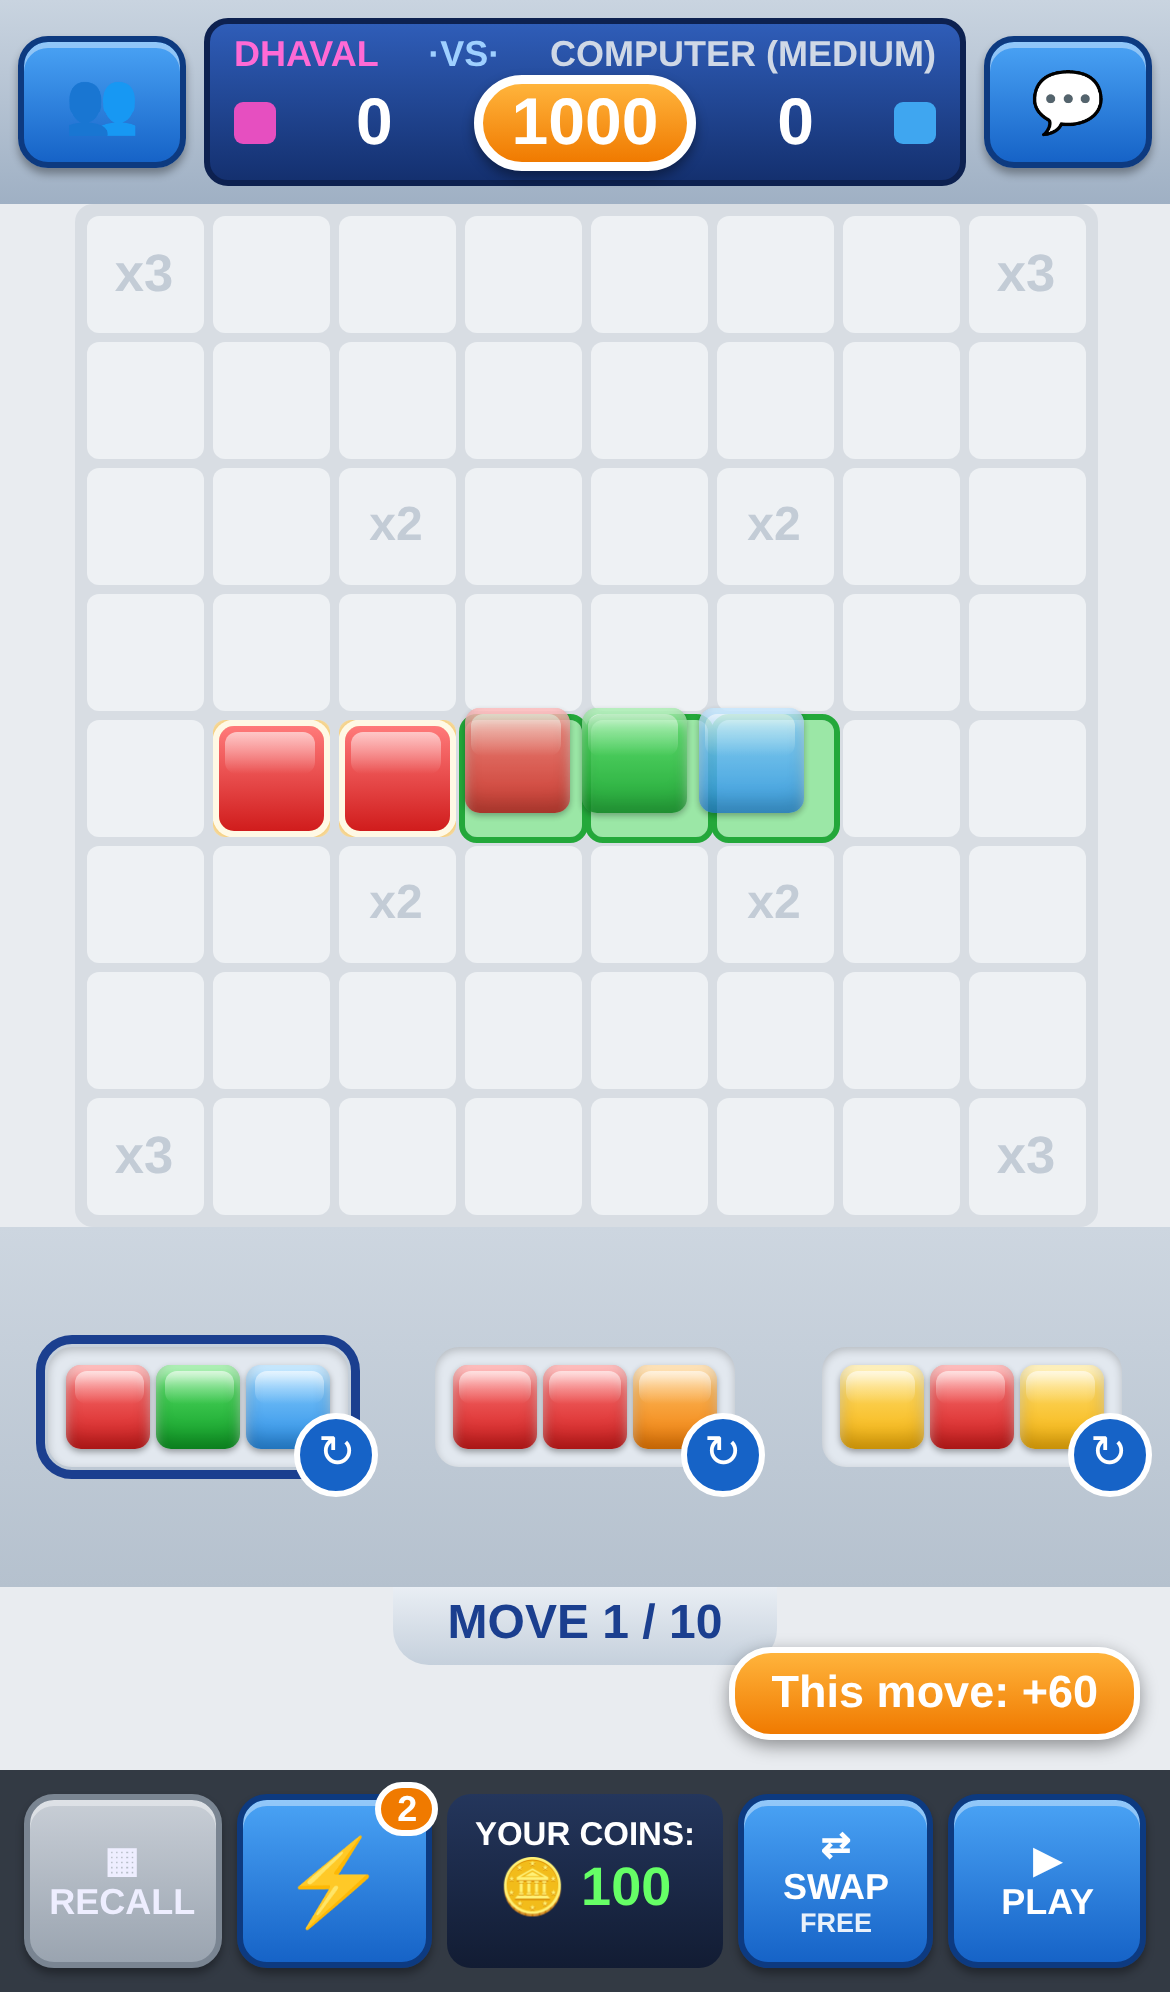
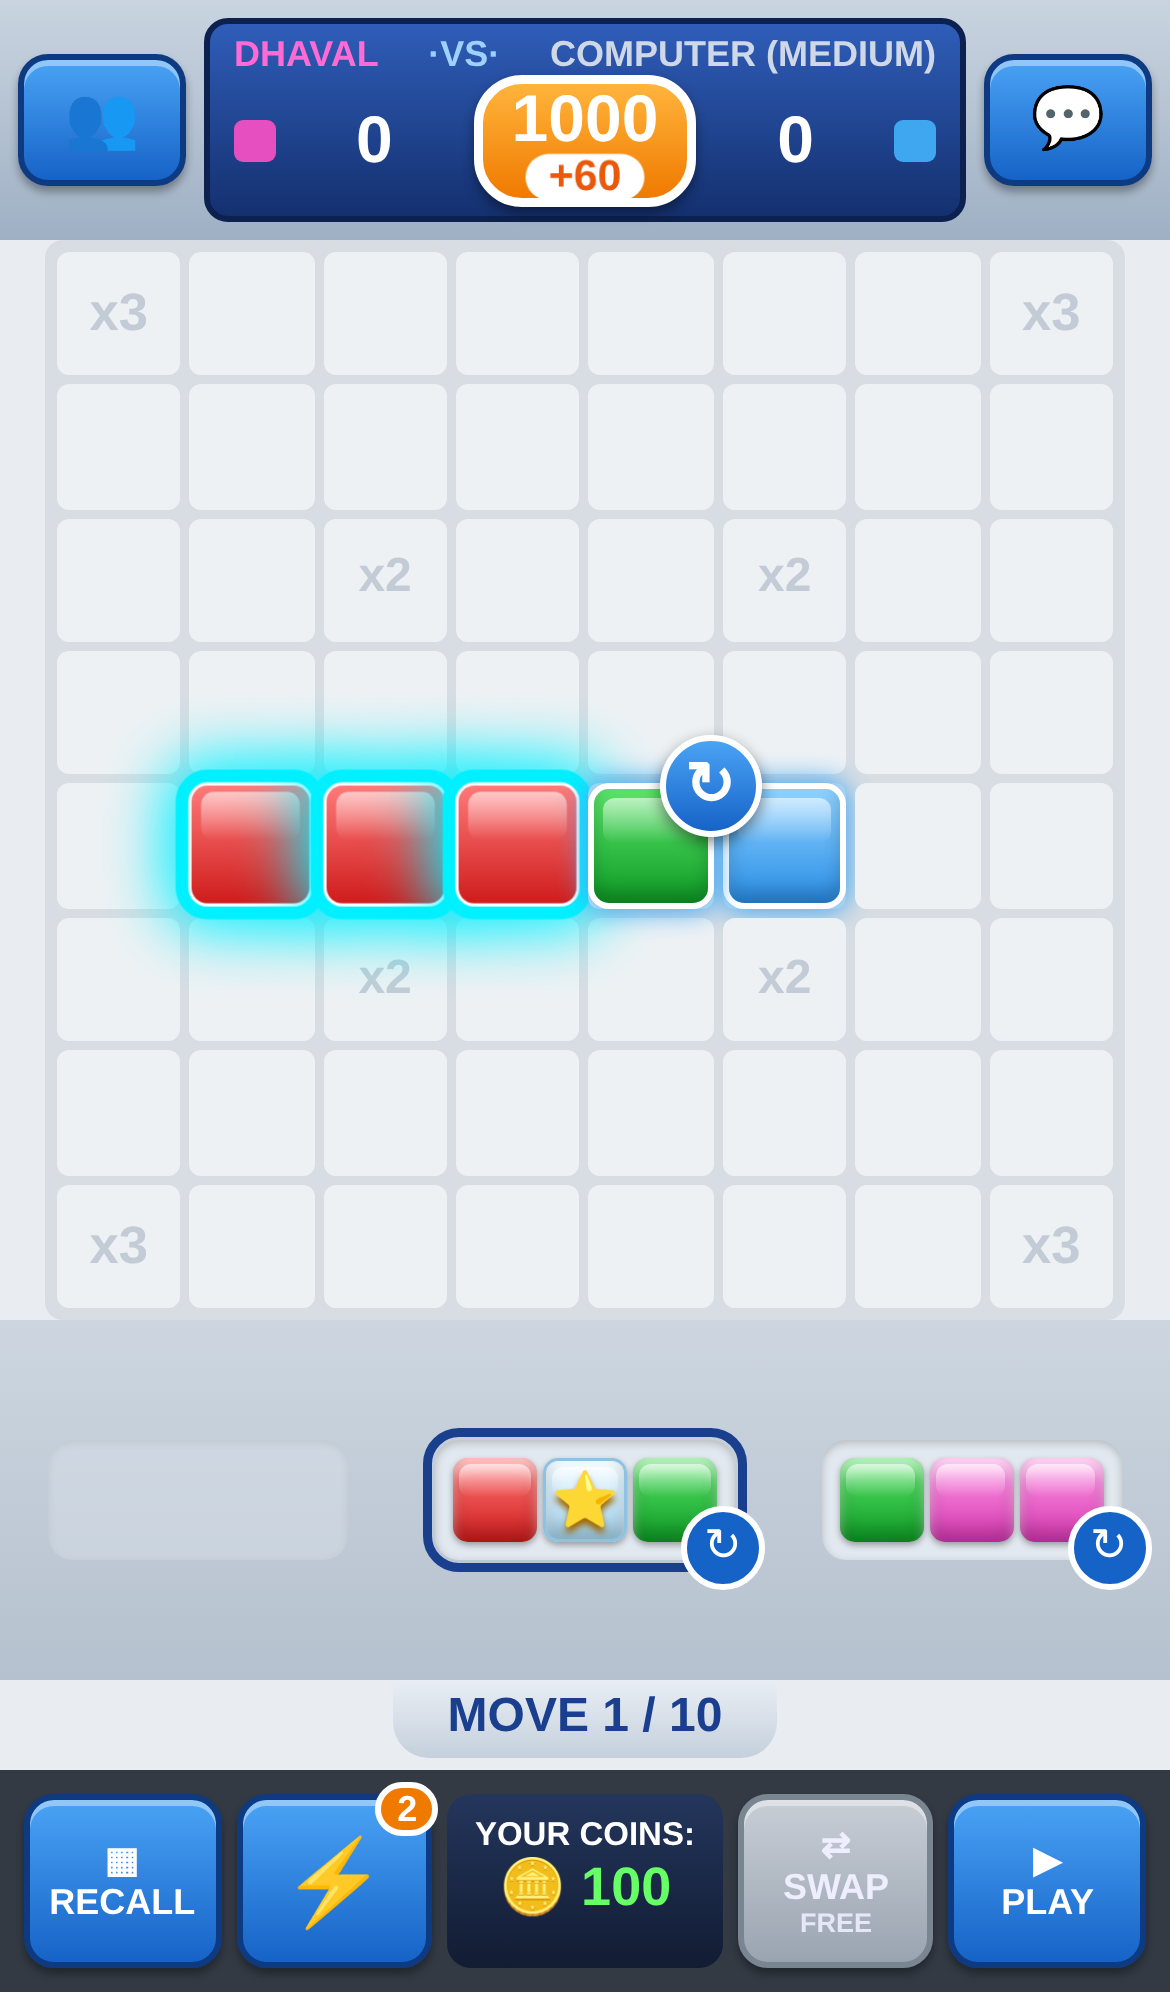
v15: projected score in header pot, neon will-score ring, bubble pops + particles, Web Audio SFX with mute

diff --git a/app.js b/app.js
@@ -1,7 +1,20 @@
 const L=Logic,$=id=>document.getElementById(id);let g,pieces=[],sel=null,boost=false,busy=false,ghost=null,pops=[];
 const toast=document.createElement('div');toast.id='toast';document.body.appendChild(toast);
 function say(t){toast.textContent=t;toast.style.opacity=1;clearTimeout(say.t);say.t=setTimeout(()=>toast.style.opacity=0,1300);}
-function beep(f){try{const a=beep.c||(beep.c=new AudioContext()),o=a.createOscillator(),v=a.createGain();o.frequency.value=f;v.gain.value=.05;o.connect(v);v.connect(a.destination);o.start();o.stop(a.currentTime+.08);}catch(e){}}
+// ---- Web Audio synth SFX (no files); unlocked on first tap for iOS ----
+const SFX=(()=>{let ctx=null;const get=()=>{if(!ctx){const C=window.AudioContext||window.webkitAudioContext;if(!C)return null;ctx=new C();}if(ctx.state==='suspended')ctx.resume();return ctx;};
+ const muted=()=>typeof profile!=='undefined'&&profile.muted;
+ function tone(f,dur,type,vol,t0,f2){const a=get();if(!a||muted())return;const t=a.currentTime+(t0||0),o=a.createOscillator(),v=a.createGain();o.type=type||'sine';o.frequency.setValueAtTime(f,t);if(f2)o.frequency.exponentialRampToValueAtTime(f2,t+dur);
+  v.gain.setValueAtTime(0.0001,t);v.gain.exponentialRampToValueAtTime(vol||0.15,t+0.008);v.gain.exponentialRampToValueAtTime(0.0001,t+dur);o.connect(v);v.connect(a.destination);o.start(t);o.stop(t+dur+0.02);}
+ function noise(dur,vol,t0,lp){const a=get();if(!a||muted())return;const t=a.currentTime+(t0||0),n=a.sampleRate*dur,buf=a.createBuffer(1,n,a.sampleRate),d=buf.getChannelData(0);for(let i=0;i<n;i++)d[i]=(Math.random()*2-1)*Math.pow(1-i/n,2);
+  const s=a.createBufferSource(),f=a.createBiquadFilter(),v=a.createGain();f.type='lowpass';f.frequency.value=lp||1200;v.gain.value=vol||0.4;s.buffer=buf;s.connect(f);f.connect(v);v.connect(a.destination);s.start(t);}
+ return {unlock:()=>{const a=get();if(a){const b=a.createBuffer(1,1,22050),s=a.createBufferSource();s.buffer=b;s.connect(a.destination);s.start(0);}},
+  click:()=>tone(900,0.05,'square',0.06,0,500),rot:()=>tone(650,0.06,'triangle',0.08,0,900),bad:()=>tone(180,0.15,'sawtooth',0.07,0,120),
+  pop:i=>{tone(500+i*70,0.09,'sine',0.18,i*0.06,1400+i*90);noise(0.04,0.15,i*0.06,3000);},
+  chime:sc=>{const notes=sc>=300?[523,659,784,1047,1319]:sc>=120?[523,659,784,1047]:[659,784,988];notes.forEach((f,i)=>tone(f,0.25,'triangle',0.12,0.12+i*0.08));},
+  boom:()=>{noise(0.6,0.7,0,700);tone(120,0.5,'sine',0.35,0,40);},pass:()=>tone(330,0.12,'triangle',0.08)};})();
+function beep(f){if(f<=250)SFX.bad();else if(f<=650)SFX.click();else SFX.rot();}
+addEventListener('pointerdown',()=>SFX.unlock(),{once:true});
 function tileHTML(c){return c==='star'?'<div class="tile star"><span>⭐</span></div>':'<div class="tile '+c+'"></div>';}
 // ---- local profile (schema ready to sync to an online account later) ----
 const PKEY='startiles.profile';
@@ -23,7 +36,7 @@ function firstFree(){const r=g.racks[g.turn];for(let s=0;s<3;s++)if(r[3*s]&&!use
 function tilesAt(s,r,c){return L.pieceTiles(g.racks[g.turn],s,g.orient[g.turn][s],r,c);}
 function render(){setTimeout(fit,0);const b=cur(),bd=$('board');bd.innerHTML='';
  const pvTiles=placed().concat(ghost&&ghost.ok?ghost.tiles:[]),pv=L.previewMove(g,pvTiles,boost),willSet=new Set(pv.pops.map(q=>q.r*8+q.c));
- const pe=$('prev');pe.textContent='This move: +'+pv.score+(boost&&pv.score?' (⚡x2)':'');pe.className=(human()&&!aim&&(pvTiles.length||boost))?'show'+(pv.score?' hot':''):'';
+ const pe=$('prev');pe.textContent='This move: +'+pv.score+(boost&&pv.score?' (⚡x2)':'');const showPv=human()&&!aim&&(pvTiles.length||boost);pe.className='';const pp=$('potprev');pp.textContent=showPv?'+'+pv.score+(boost&&pv.score?' ⚡':''):'';pp.className=showPv?(pv.score?'hot':'zero'):'';
  const aimSet=new Set(aim&&aim.r!=null?L.blastCells(aim.type,aim.r,aim.c).map(([y,x])=>y*8+x):[]),fxSet=new Set(blastFx.map(([y,x])=>y*8+x));
  const gk=ghost?new Set(ghost.tiles.map(t=>t.r*8+t.c)):new Set();
  for(let r=0;r<8;r++)for(let c=0;c<8;c++){const d=document.createElement('div'),m=L.mult(r,c);d.className='cell'+(m>1?' m'+m:'');d.dataset.r=r;d.dataset.c=c;const t=b[r][c];
@@ -39,7 +52,7 @@ function render(){setTimeout(fit,0);const b=cur(),bd=$('board');bd.innerHTML='';
   const disp=L.pieceTiles(rack,s,o,0,0);for(let j=0;j<3;j++){const d=document.createElement('div');d.className='rt';if(!hidden)d.innerHTML=tileHTML(disp[j].color);set.appendChild(d);}
   if(!hidden){const rb=document.createElement('button');rb.className='rot';rb.textContent='↻';rb.dataset.s=s;set.appendChild(rb);}else set.classList.add('empty');
   rk.appendChild(set);}
- $('s0').textContent=g.scores[0];$('s1').textContent=g.scores[1];$('pot').textContent=g.pot;
+ $('s0').textContent=g.scores[0];$('s1').textContent=g.scores[1];$('potn').textContent=g.pot;
  $('n0').textContent=NAMES()[0];$('n1').textContent=NAMES()[1];$('n0').className=g.turn===0?'on':'';$('n1').className=g.turn===1?'on':'';
  const mv=Math.min(g.moves[g.turn]+1,10),fin=L.isFinal(g)&&!g.over;$('banner').textContent=g.over?'GAME OVER':(fin?'FINAL MOVE!':'MOVE '+mv+' / 10');$('banner').className=fin?'final':'';
  const fr=g.power[g.turn];$('badge').textContent=boost?'✓':(fr>0?fr:'50🪙');$('power').className='btn'+(boost?' on':'');const cw=g.mode==='pvp'?g.turn:meIdx();$('coinN').textContent=g.coins[cw];
@@ -95,12 +108,13 @@ $('pmenu').onclick=e=>{const b=e.target.closest('[data-p]');if(!b&&e.target.id!=
 $('tno').onclick=()=>{aim=null;$('tbar').classList.remove('show');render();};
 $('tgo').onclick=()=>{if(!aim||aim.r==null)return;if(isOn())Online.act({type:'blast',b:aim.type,r:aim.r,c:aim.c});const res=L.blast(g,aim.type,aim.r,aim.c);aim=null;$('tbar').classList.remove('show');if(!res)return render();
  boom(res);say(res.pops.length?'💥 Cleared '+res.pops.length+' tiles':'💥 Nothing to clear');};
-function boom(res){blastFx=res.cells;pops=res.pops;beep(150);render();setTimeout(()=>{blastFx=[];pops=[];render();},550);}
+function boom(res){blastFx=res.cells;pops=res.pops;SFX.boom();render();burst(res.pops);setTimeout(()=>{blastFx=[];pops=[];render();},550);}
 let blastFx=[];
 $('swap').onclick=()=>{const paid=g.swaps[g.turn]<1;if(!L.canSwap(g)){say('Not enough coins');return;}if(isOn())Online.act({type:'swap'});L.swap(g);say(paid?'Swapped (−50 🪙)':'Free swap used');next();};
-$('play').onclick=()=>{const np=pieces.length,p=g.turn;if(isOn())Online.act({type:'commit',pl:placed(),boost});const res=L.commit(g,placed(),boost);pop(res);markOwner(p);pieces=[];boost=false;beep(res.score?900:500);
+$('play').onclick=()=>{const np=pieces.length,p=g.turn;if(isOn())Online.act({type:'commit',pl:placed(),boost});const res=L.commit(g,placed(),boost);pop(res);markOwner(p);pieces=[];boost=false;
  say(res.score?'+'+res.score+' (cleared '+res.cleared+')':(np?'No match – need 3!':'Passed (pot +100)'));next();};
-function pop(res){pops=res.pops||[];setTimeout(()=>{pops=[];render();},450);}
+function pop(res){pops=res.pops||[];pops.forEach((q,i)=>SFX.pop(i));if(res.score)setTimeout(()=>SFX.chime(res.score),pops.length*60);else SFX.pass();burst(pops);setTimeout(()=>{pops=[];render();},650);}
+function burst(list){const bd=$('board');setTimeout(()=>list.forEach((q,i)=>{const cell=bd.children[q.r*8+q.c];if(!cell)return;for(let k=0;k<7;k++){const p=document.createElement('i');p.className='prt '+q.color;const ang=k/7*Math.PI*2+Math.random()*.5,d=28+Math.random()*26;p.style.setProperty('--dx',Math.cos(ang)*d+'px');p.style.setProperty('--dy',Math.sin(ang)*d+'px');p.style.animationDelay=(i*0.06)+'s';cell.appendChild(p);setTimeout(()=>p.remove(),900);}}),20);}
 function markOwner(p){g.board.forEach(r=>r.forEach(t=>{if(t&&t.star&&t.owner===undefined)t.owner=p;}));}
 function next(){sel=g.over?null:firstFree();render();if(g.over)return finish();
  if(g.mode==='pvp'){say(NAMES()[g.turn]+"'s turn");return;}
@@ -135,8 +149,9 @@ $('infoBtn').onclick=()=>say('Drag a 3-tile piece · tap it again or ↻ to rota
 function fit(){const bd=$('board'),app=$('app');let used=0;[...app.children].forEach(c=>{if(c!==bd&&c.id!=='overlay')used+=c.getBoundingClientRect().height;});
  const st=getComputedStyle(app),avail=app.clientHeight-parseFloat(st.paddingTop)-used-4;bd.style.width=Math.max(120,Math.min(app.clientWidth,avail))+'px';}
 addEventListener('resize',fit);
-function showProfile(){$('pname').value=profile.name;$('pstat').textContent='🪙 '+profile.coins+' coins · '+profile.wins+' wins / '+profile.games+' games';
+function showProfile(){$('muteBtn').textContent=profile.muted?'🔇 Sound: OFF':'🔊 Sound: ON';$('pname').value=profile.name;$('pstat').textContent='🪙 '+profile.coins+' coins · '+profile.wins+' wins / '+profile.games+' games';
  document.querySelectorAll('#diff button').forEach(b=>b.classList.toggle('on',b.dataset.d===profile.difficulty));}
+$('muteBtn').onclick=()=>{profile.muted=!profile.muted;saveProfile();showProfile();if(!profile.muted)SFX.chime(60);};
 $('diff').onclick=e=>{const b=e.target.closest('[data-d]');if(!b)return;profile.difficulty=b.dataset.d;saveProfile();showProfile();if(g)render();};
 $('pname').onchange=()=>{profile.name=$('pname').value.trim();saveProfile();if(g)render();};
 g=L.newGame('ai');g.coins[0]=profile.coins;render();showProfile();$('overlay').classList.add('show');if(!profile.name)setTimeout(()=>$('pname').focus(),300);

diff --git a/index.html b/index.html
@@ -1,11 +1,11 @@
 <!DOCTYPE html><html><head><meta charset="utf-8"><meta name="viewport" content="width=device-width,initial-scale=1,viewport-fit=cover,user-scalable=no">
 <title>Star Tiles</title><link rel="manifest" href="manifest.json"><link rel="apple-touch-icon" href="icon-180.png">
 <meta name="apple-mobile-web-app-capable" content="yes"><meta name="mobile-web-app-capable" content="yes"><meta name="apple-mobile-web-app-status-bar-style" content="black"><meta name="theme-color" content="#1b3f8f">
-<link rel="stylesheet" href="style.css?v=14"></head><body>
+<link rel="stylesheet" href="style.css?v=15"></head><body>
 <div id="app">
 <header><button class="btn sq" id="menuBtn">👥</button>
 <div id="hud"><div class="names"><span id="n0" class="p0">DHAVAL P</span><span class="vs">·VS·</span><span id="n1">COMPUTER</span></div>
-<div class="scores"><i class="sw pink"></i><b id="s0">0</b><span id="pot">1000</span><b id="s1">0</b><i class="sw blue"></i></div></div>
+<div class="scores"><i class="sw pink"></i><b id="s0">0</b><span id="pot"><span id="potn">1000</span><span id="potprev"></span></span><b id="s1">0</b><i class="sw blue"></i></div></div>
 <button class="btn sq" id="infoBtn">💬</button></header>
 <div id="board"></div>
 <div id="rack"></div>
@@ -23,12 +23,12 @@
 <div id="onl"><div class="card"><h2>🌐 Online room</h2><div id="onlcode" class="code">——</div><p id="onlmsg"></p><button class="btn big cancel" id="onlCancel">Cancel</button></div></div>
 <div id="overlay" class="show"><div class="card"><h1>⭐ Star Tiles</h1><p id="msg">It takes 3 to score: connect 3+ same-color tiles to score and clear them. Stars from your rack are wild and permanent. Drag your 3-tile pieces onto the board (tap again or ↻ to rotate). Place 0–3 pieces anywhere they fit on empty squares, then PLAY. ⚡ Power-ups (2 per game, 1 per move): Double Points, Bomb (3×3) or Cross Blast (row + column). Blasts clear everything in the area, even stars, but score nothing. Coins: start with 100, win = +10. Each game has 1 free swap and 2 free power-ups; extra swaps or power-ups cost 50 coins. 10 moves each — biggest score takes the pot!</p>
 <label class="pname">Your name <input id="pname" maxlength="14" placeholder="Enter your name" autocomplete="off"></label>
-<div class="pstat" id="pstat"></div>
+<div class="pstat" id="pstat"></div><button class="btn mute" id="muteBtn">🔊 Sound: ON</button>
 <div class="diff" id="diff"><button data-d="easy">EASY</button><button data-d="medium">MEDIUM</button><button data-d="hard">HARD</button><button data-d="expert">EXPERT</button></div>
 <button class="btn big" id="vsAI">Play vs COMPUTER</button><button class="btn big" id="vsP">Pass &amp; Play (2 players)</button>
 <div class="online"><button class="btn big" id="hostBtn">🌐 Host online game</button>
-<div class="joinrow"><input id="joinCode" maxlength="6" placeholder="ROOM CODE" autocapitalize="characters" autocomplete="off"><button class="btn" id="joinBtn">Join</button></div></div><div id="ver">v14</div></div></div>
-</div><script src="logic.js?v=14"></script><script src="online.js?v=14"></script><script src="app.js?v=14"></script>
+<div class="joinrow"><input id="joinCode" maxlength="6" placeholder="ROOM CODE" autocapitalize="characters" autocomplete="off"><button class="btn" id="joinBtn">Join</button></div></div><div id="ver">v15</div></div></div>
+</div><script src="logic.js?v=15"></script><script src="online.js?v=15"></script><script src="app.js?v=15"></script>
 <script>
 if('serviceWorker'in navigator){let reloaded=false;const had=!!navigator.serviceWorker.controller;
  navigator.serviceWorker.addEventListener('controllerchange',()=>{if(reloaded||!had)return;reloaded=true;location.reload();});

diff --git a/style.css b/style.css
@@ -109,3 +109,18 @@ html,body,button,.set,.rot,#rack{touch-action:manipulation}
 #onl{position:fixed;inset:0;background:#000a;display:none;align-items:center;justify-content:center;z-index:50}#onl.show{display:flex}
 .code{font-size:40px;font-weight:900;letter-spacing:6px;color:#1b3f8f;margin:8px 0}
 .card{max-height:92vh;overflow:auto}
+/* v15: preview in header, very visible will-score ring, bubble pops */
+#prev{display:none!important}
+#pot{position:relative;display:inline-flex;flex-direction:column;align-items:center;line-height:1.05}
+#potprev{font-size:13px;font-weight:900;border-radius:9px;padding:0 7px;margin-top:1px}#potprev:empty{display:none}
+#potprev.hot{background:#fff;color:#e8590c;animation:pp .6s ease-in-out infinite alternate}#potprev.zero{background:#ffffff55;color:#fff}
+@keyframes pp{to{transform:scale(1.12)}}
+.cell.will{z-index:3}
+.cell.will .tile{animation:will2 .5s ease-in-out infinite alternate;outline:4px solid #00f0ff;outline-offset:1px}
+@keyframes will2{from{box-shadow:0 0 0 2px #fff,0 0 10px 4px #00f0ff;transform:scale(1)}to{box-shadow:0 0 0 4px #fff,0 0 22px 10px #00f0ff;transform:scale(1.08)}}
+.tile.pop{animation:bub .6s cubic-bezier(.2,1.6,.4,1) forwards}
+@keyframes bub{0%{transform:scale(1)}35%{transform:scale(1.45);filter:brightness(1.6)}60%{transform:scale(1.1);opacity:.9}100%{transform:scale(0);opacity:0}}
+.prt{position:absolute;left:50%;top:50%;width:9px;height:9px;margin:-4.5px;border-radius:50%;pointer-events:none;z-index:9;animation:prt .7s ease-out forwards;box-shadow:0 0 4px #fff}
+@keyframes prt{0%{transform:translate(0,0) scale(1);opacity:1}100%{transform:translate(var(--dx),var(--dy)) scale(.2);opacity:0}}
+.prt.star{background:#ffd23a}.cell{overflow:visible}
+.btn.mute{width:100%;margin-top:6px;background:linear-gradient(#7d8b9c,#5a6676);border-color:#46505c}

diff --git a/sw.js b/sw.js
@@ -1,4 +1,4 @@
-const V='v14',C='star-tiles-'+V,F=['./','index.html','style.css?v=14','app.js?v=14','logic.js?v=14','online.js?v=14','manifest.json','icon-180.png','icon-192.png','icon-512.png'];
+const V='v15',C='star-tiles-'+V,F=['./','index.html','style.css?v=15','app.js?v=15','logic.js?v=15','online.js?v=15','manifest.json','icon-180.png','icon-192.png','icon-512.png'];
 self.addEventListener('install',e=>{self.skipWaiting();e.waitUntil(caches.open(C).then(c=>c.addAll(F)).catch(()=>{}));});
 self.addEventListener('activate',e=>e.waitUntil(caches.keys().then(k=>Promise.all(k.filter(x=>x!==C).map(x=>caches.delete(x)))).then(()=>self.clients.claim())));
 // network-first for pages/code; cache only as offline fallback
